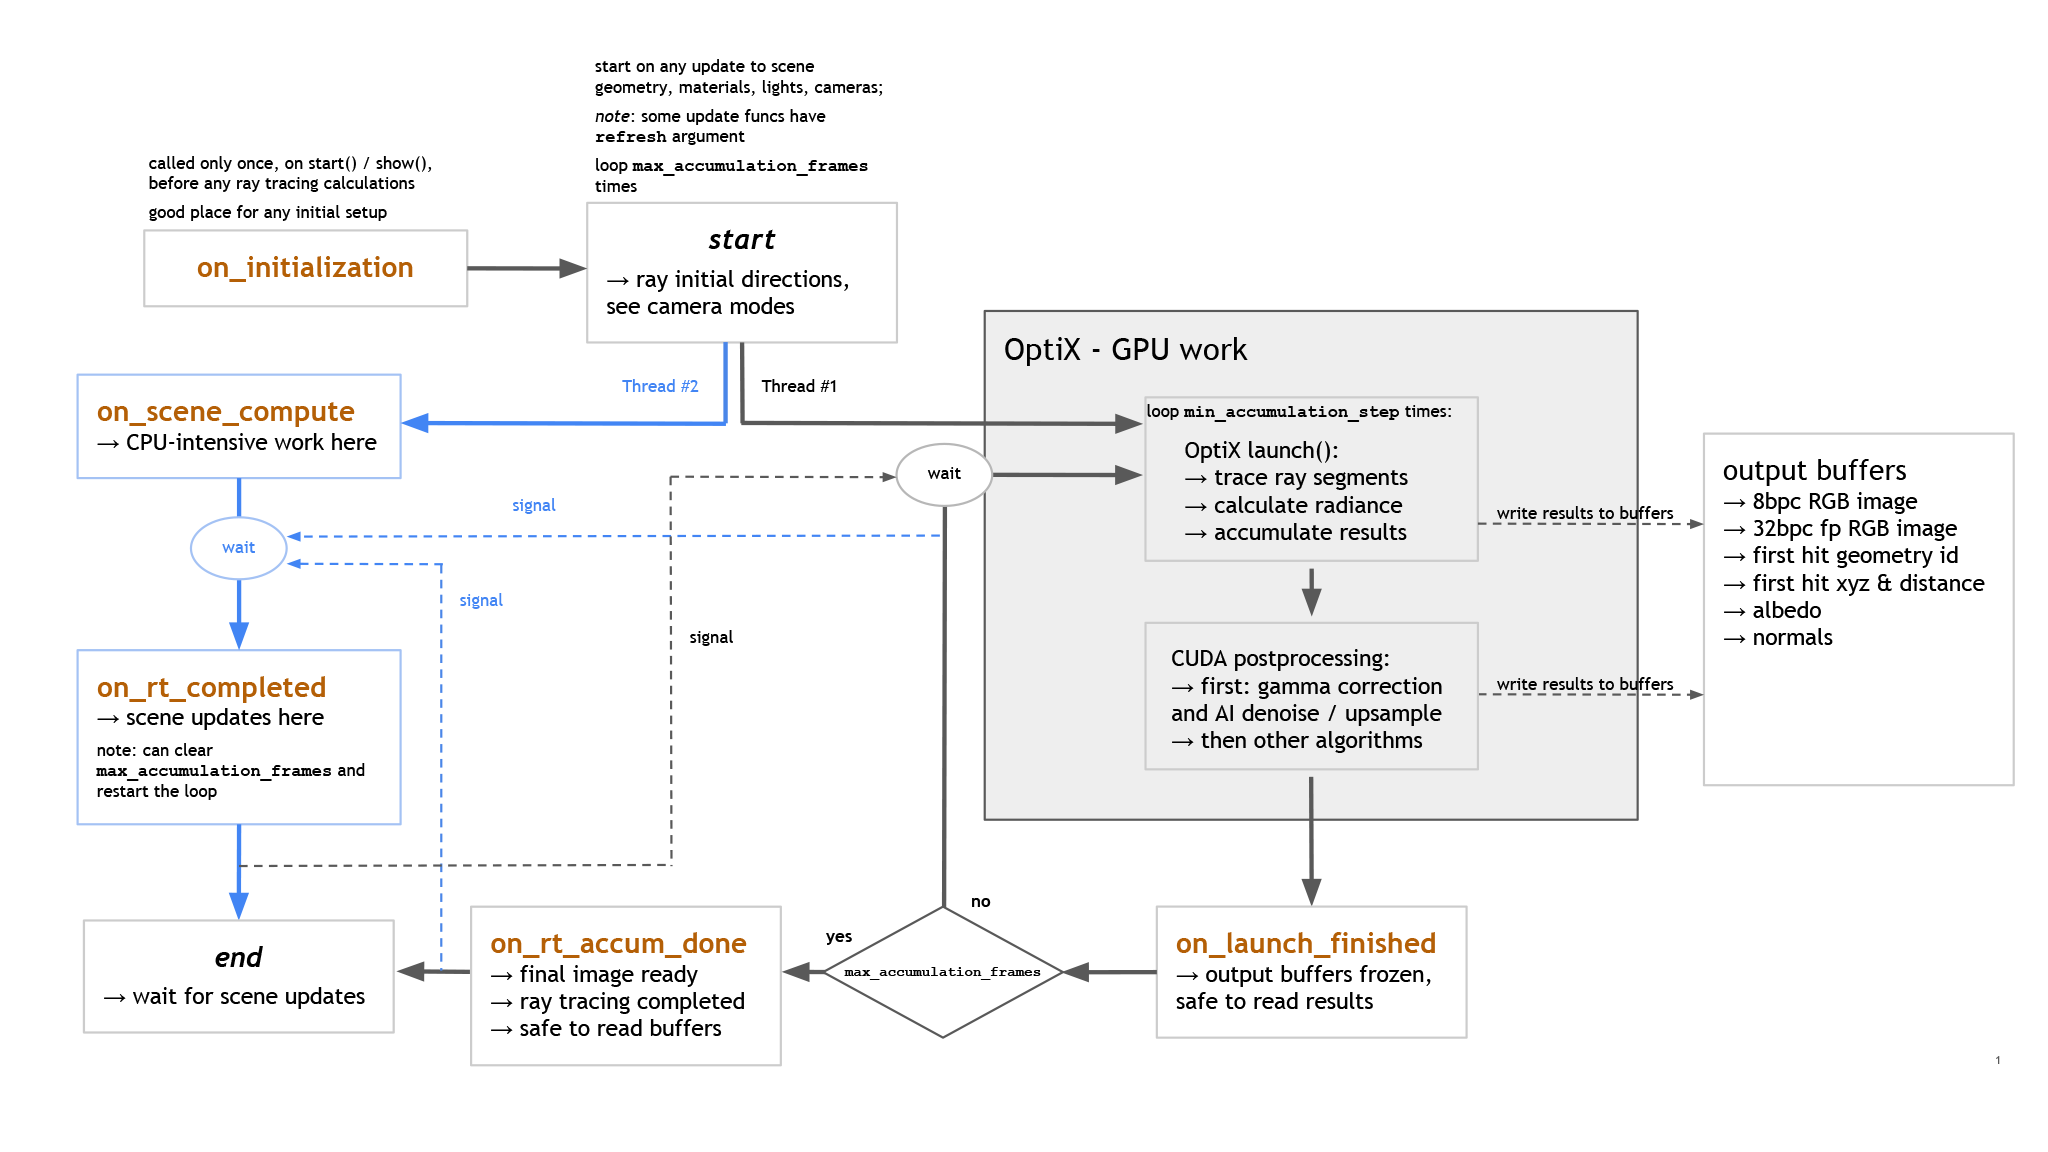
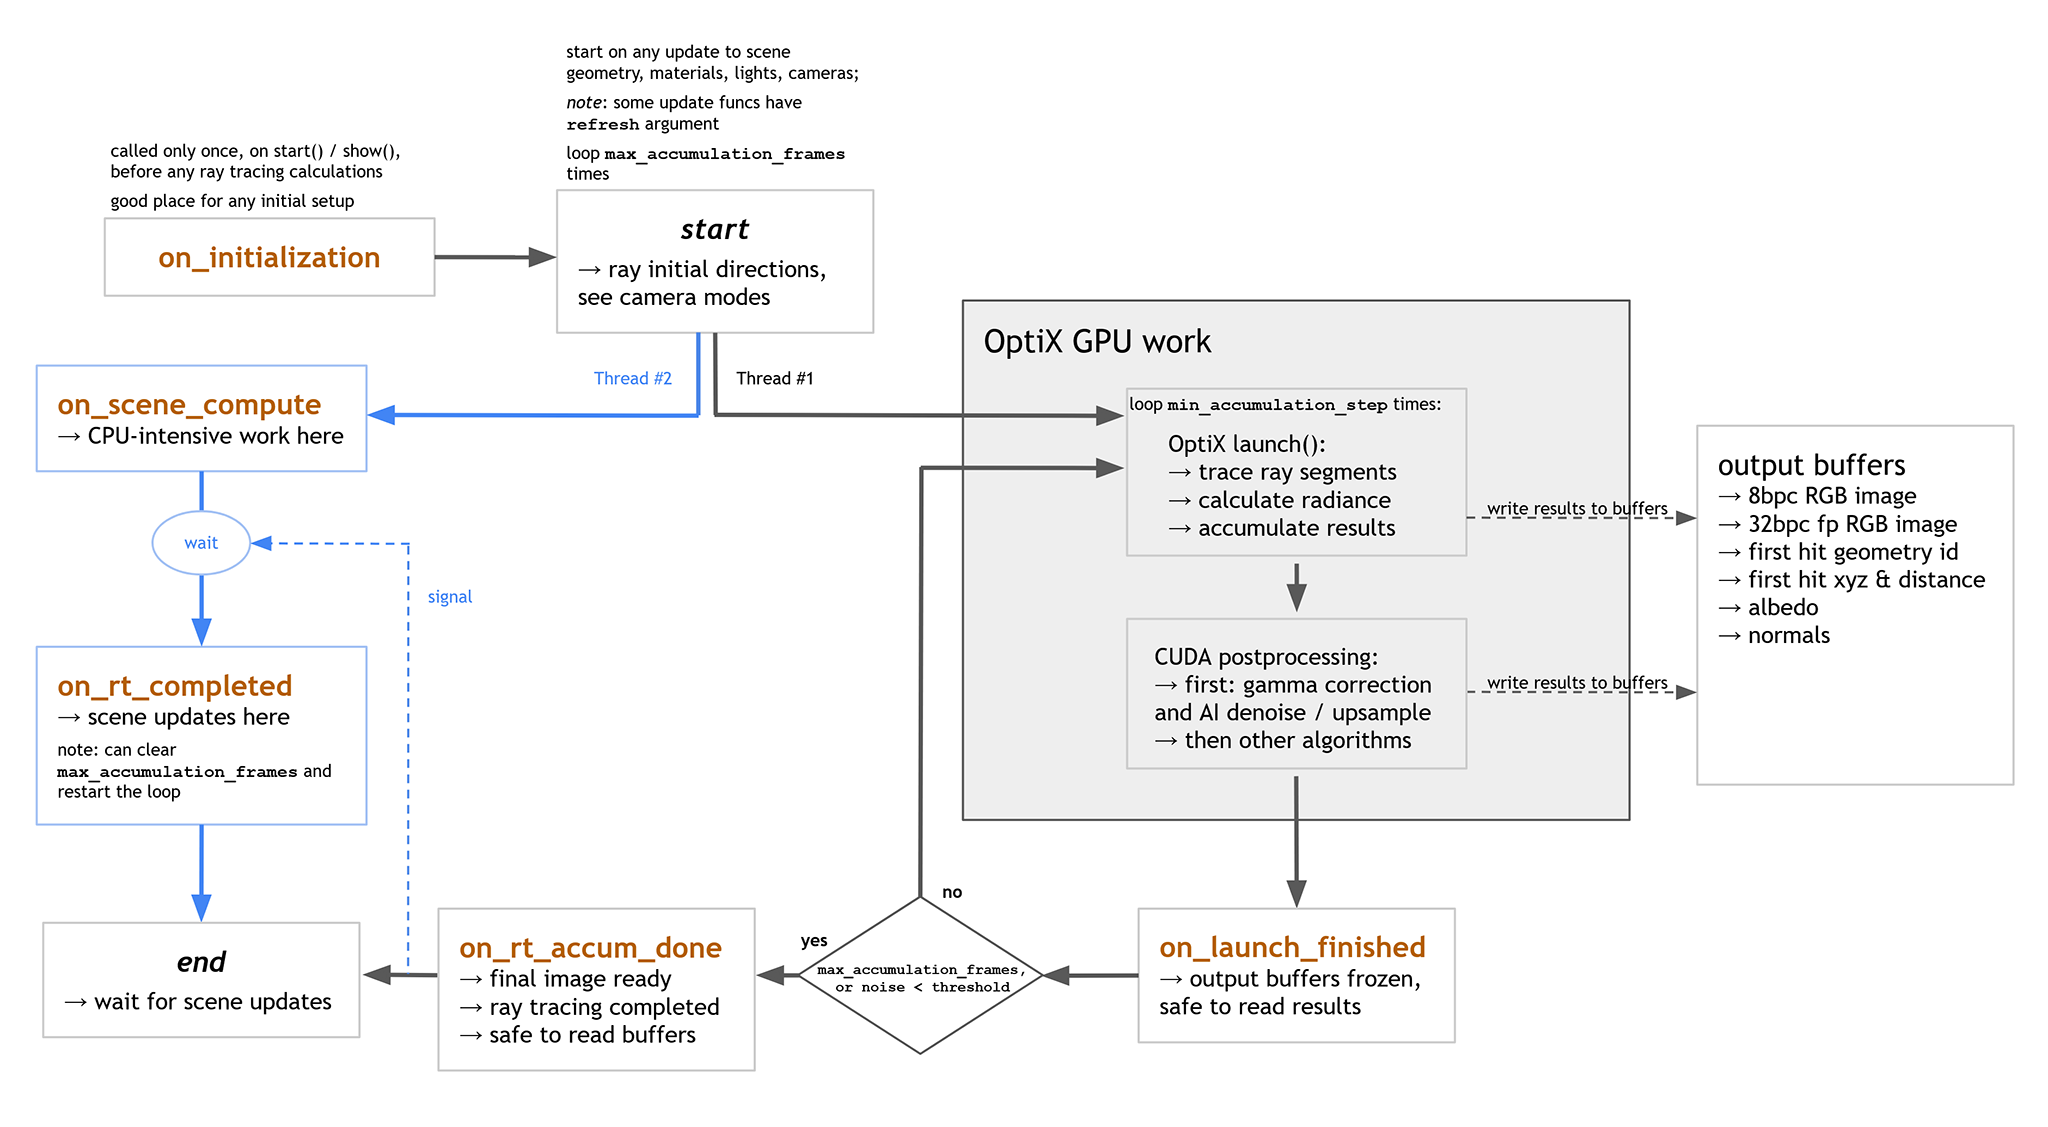
update images in docs

diff --git a/CHANGELOG.rst b/CHANGELOG.rst
@@ -6,13 +6,15 @@ Release history
 
 Added
 ~~~~~
+- Function to get current noise level (value updated after each accumulation frame).
 
 Changed
 ~~~~~~~
 - Moved to OptiX 9.1, recompliled with CUDA 13.2 (note: minimal requirements are now driver r590 and compute capability 7.5).
-- Encoder adds frame to the output clip on the "accumulation done" signal instead of "launch finished". This allows for using
-  all the work balancing modes, while it is still possible to configure `min_accumulation_step == max_accumulation_frames` to
-  get the same behavior as before.
+- ``rt_completed`` callback is now executed only after the last accumulation frame instead of every accumulation frame. Also,
+  the video encoder adds frame to the output clip on the "accumulation done" signal instead of "launch finished". This allows
+  for using all the work balancing modes in animation workflows, while it is still possible to configure
+  `min_accumulation_step == max_accumulation_frames` to get the same behavior as before.
 
 
 `v0.19.0` - 2026-03-25
